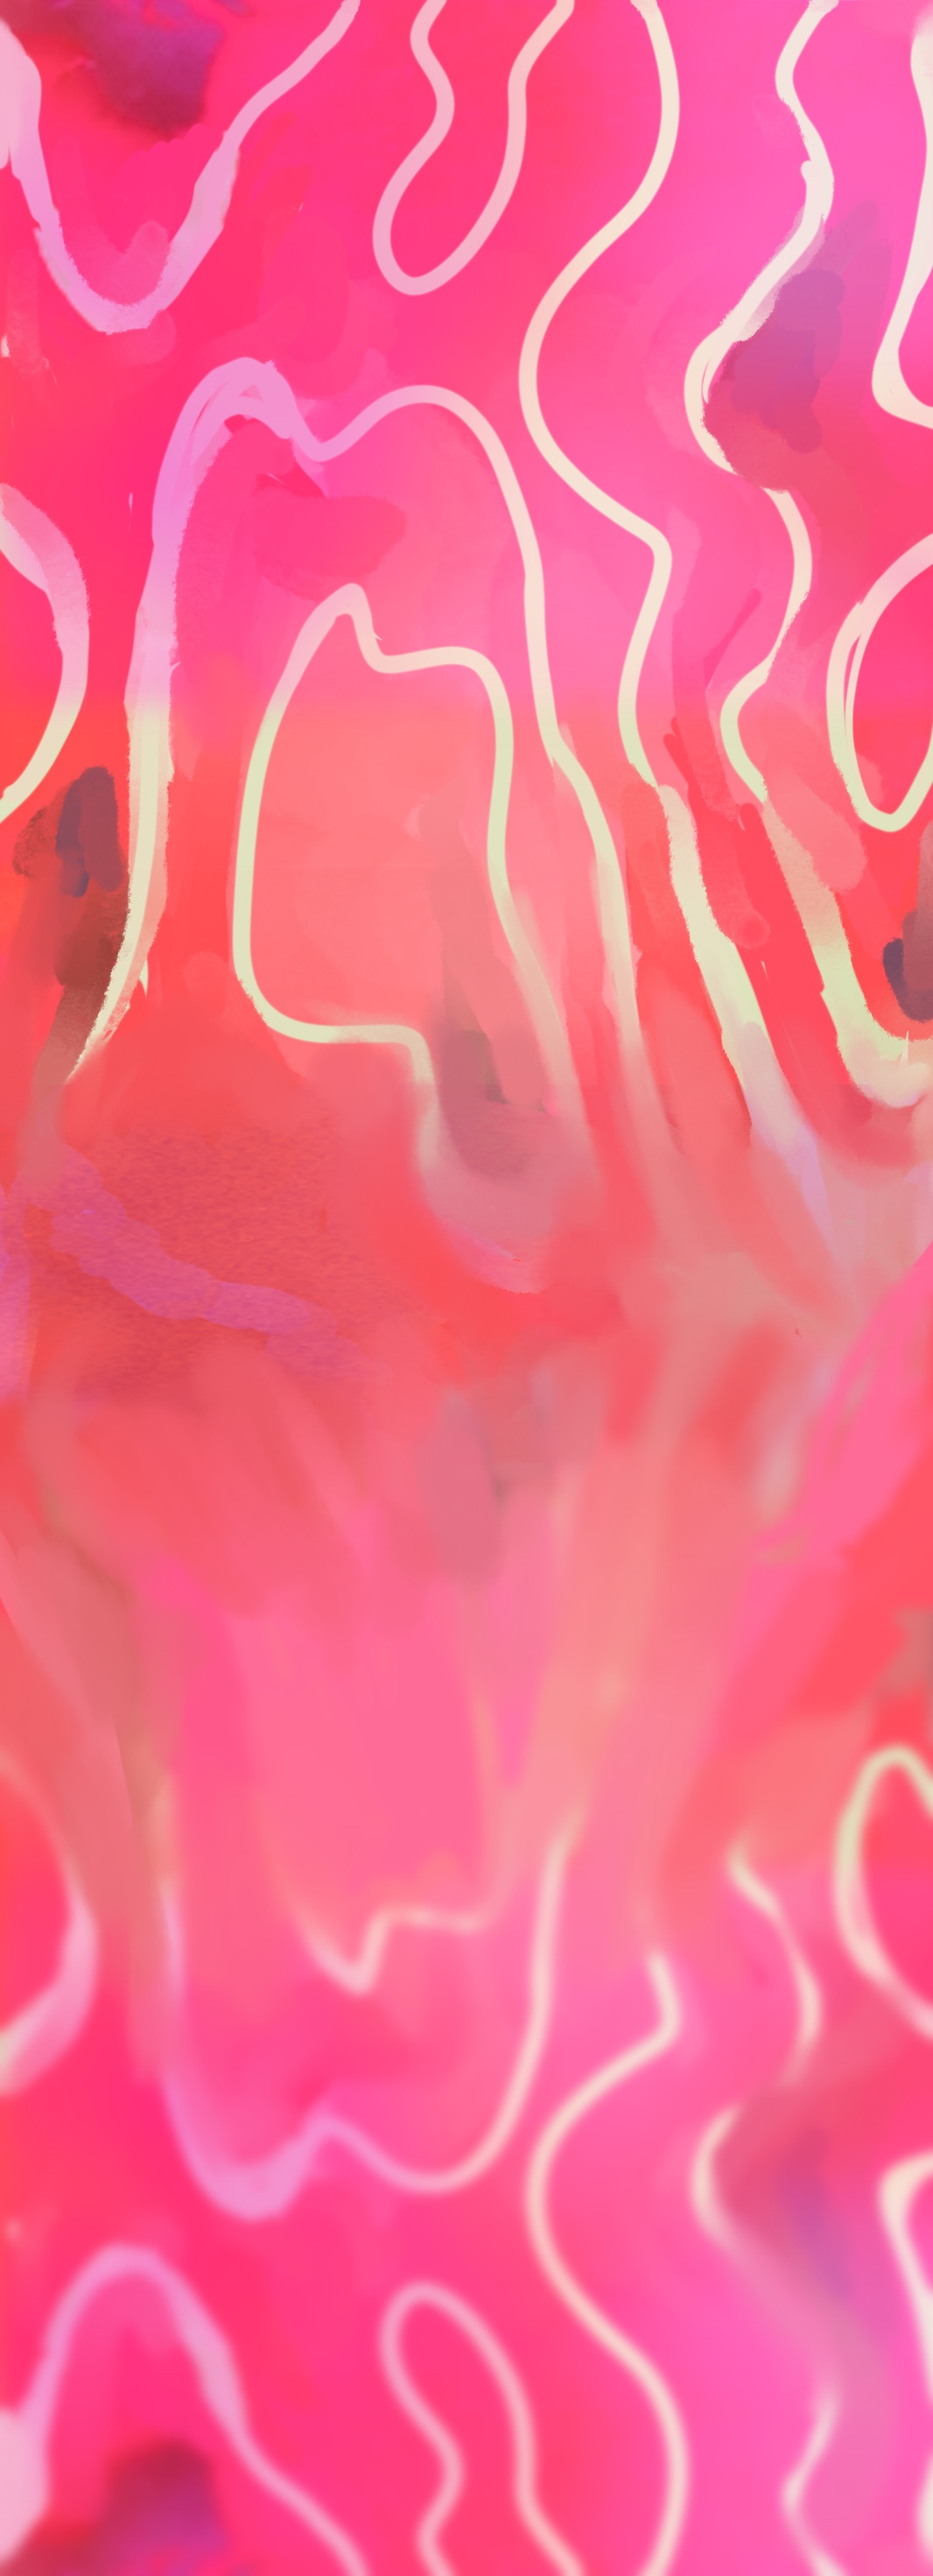
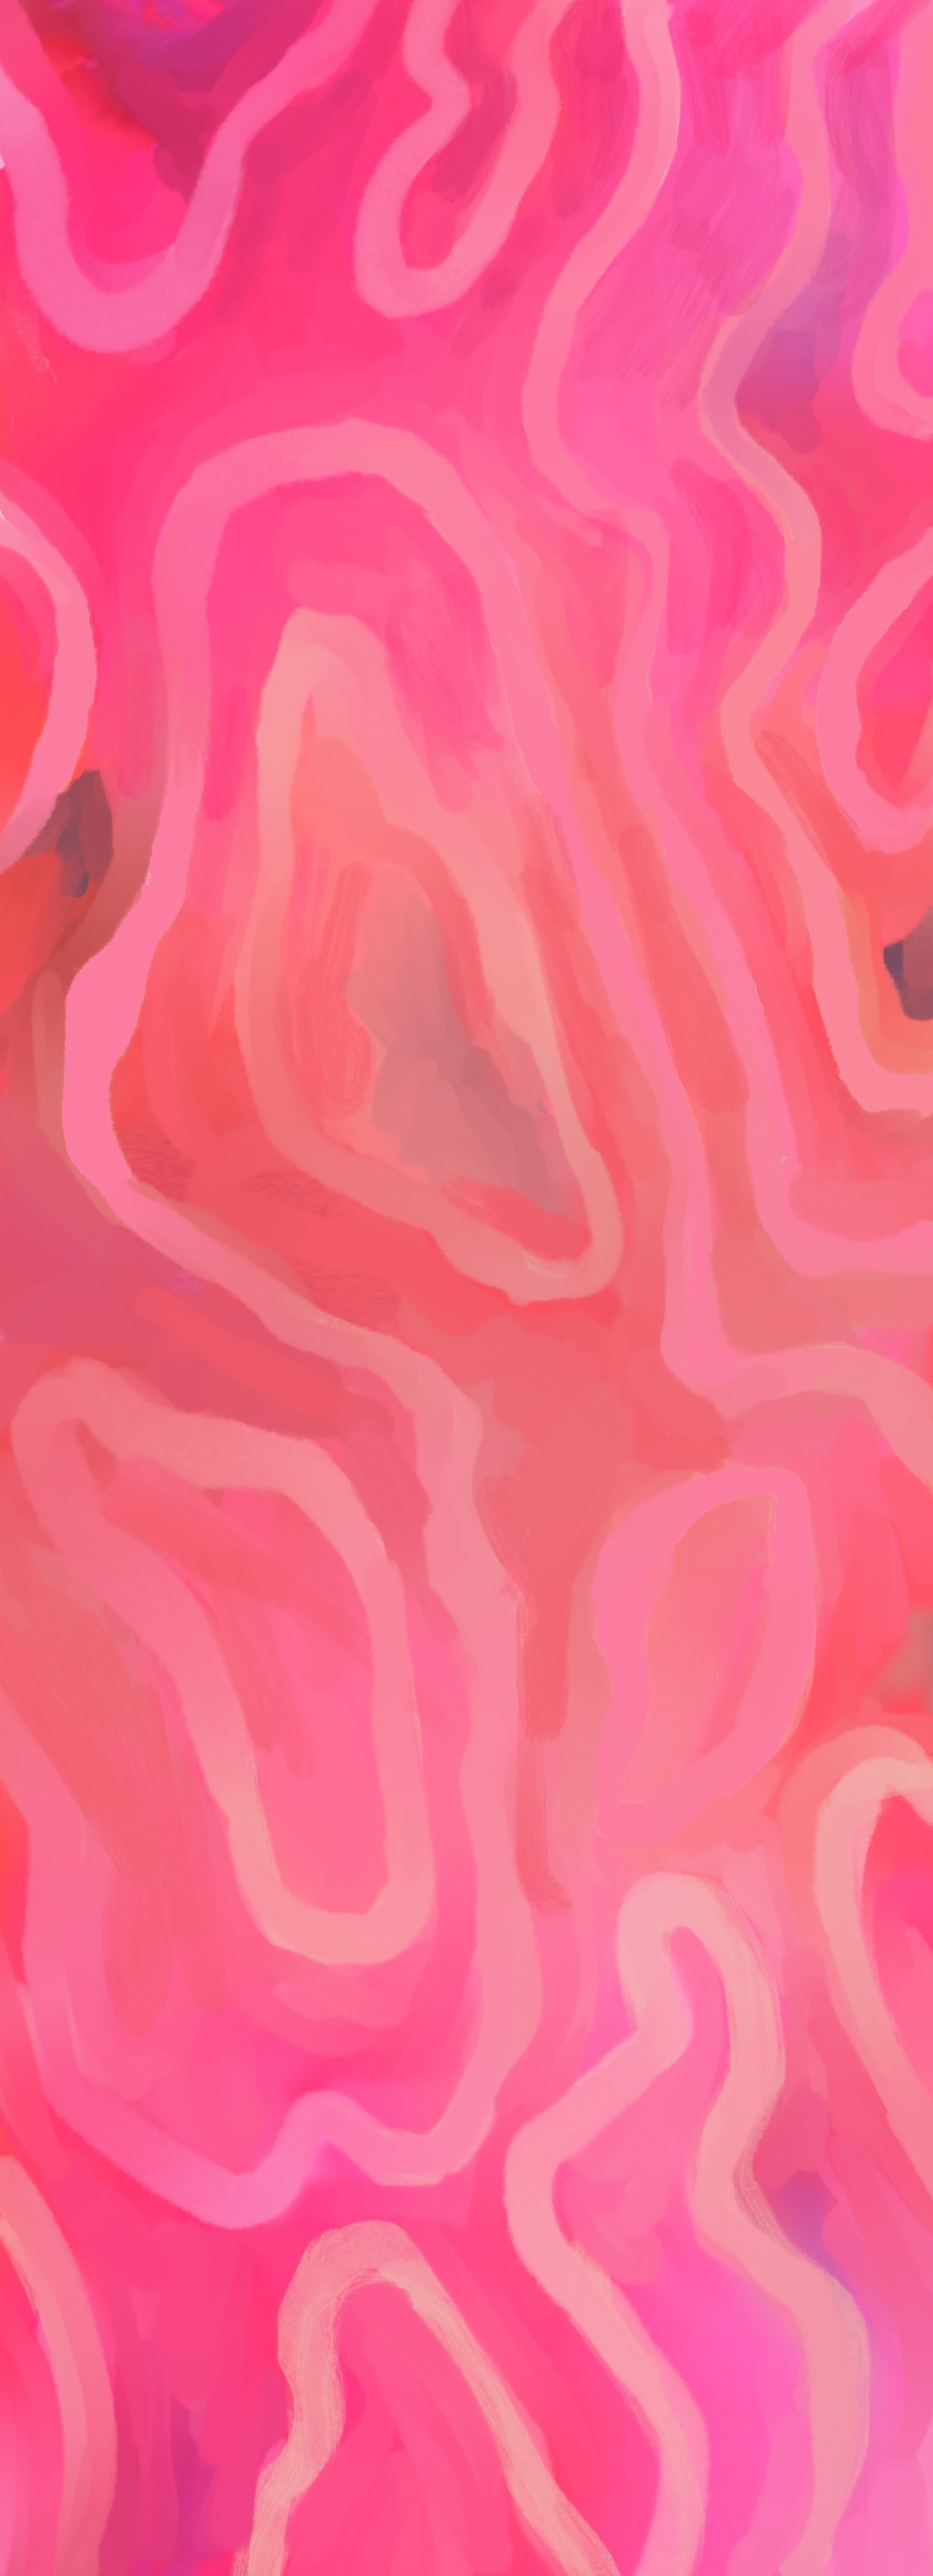
fix(mobile): maintain global audio player visibility across screens and fix web tab bar overlap (#412)
* fix(mobile): maintain global audio player visibility across screens and fix web tab bar overlap

* chore: update mobile application background assets

* refactor: export environment variables explicitly in eas-build-web commands to ensure visibility for subcommands

* chore: update seed data price for centro trip location

diff --git a/apps/mobile/src/components/global-audio-player.tsx b/apps/mobile/src/components/global-audio-player.tsx
@@ -1,10 +1,10 @@
 import { Icon } from '@/components/icon';
 import { TAB_BAR_INSET } from '@/components/screen-wrapper';
 import { useAudioRewind } from '@/hooks/use-audio-rewind';
-import { useCurrentExperience } from '@/hooks/use-current-experience';
+import { useCurrentExperience, isSameExperience } from '@/hooks/use-current-experience';
 import { useThemeColors } from '@/hooks/use-theme-colors';
 import { useAppTranslation } from '@/hooks/use-translation';
-import { cleanExperienceId, useAudioPlayerStore } from '@/store/audio-player-store';
+import { useAudioPlayerStore } from '@/store/audio-player-store';
 import { TwPressable, TwText, TwView } from '@/tw';
 import { usePathname, useSegments } from 'expo-router';
 import { Platform } from 'react-native';
@@ -18,7 +18,8 @@ export function GlobalAudioPlayer() {
   const segments = useSegments() as string[];
   const pathname = usePathname();
   const insets = useSafeAreaInsets();
-  const { experienceId, isPlaying, isPaused, metadata: currentMetadata } = useCurrentExperience();
+  const currentExperience = useCurrentExperience();
+  const { isPlaying, isPaused, metadata: currentMetadata } = currentExperience;
 
   const positionMs = useAudioPlayerStore((s) => s.positionMs);
   const durationMs = useAudioPlayerStore((s) => s.durationMs);
@@ -31,25 +32,11 @@ export function GlobalAudioPlayer() {
   const pathParts = pathname.split('/');
   const routeIdParam = pathParts[1] === ROUTES.POETICS ? pathParts[2] : undefined;
 
-  // Normalize route param ID to match clean experience ID formats
-  const cleanSegmentId = cleanExperienceId(routeIdParam) ?? undefined;
+  // Hide the global audio player only if viewing the detail page of the currently playing track/experience
+  const isDetailViewOfCurrentExperience = isSameExperience(currentExperience, routeIdParam);
 
-  // Hide the global audio player if the local audio player is already visible:
-  // 1. Playing instructions on the Home tab screen
-  // 2. Viewing the track details page of the currently playing track
-  const isLocalControllerVisible =
-    (experienceId === 'instructions' &&
-      (pathname === '/' || // Standard root path on Web/Mobile
-        pathname === '/index' || // Direct index route fallback
-        pathname === '/(tabs)' || // Tab group root segment path
-        pathname === '/(tabs)/index')) || // Explicit tab index path (e.g. deep-links / test environments)
-    (segments[0] === ROUTES.POETICS &&
-      cleanSegmentId !== undefined &&
-      (experienceId === cleanSegmentId ||
-        currentMetadata?.id === cleanSegmentId ||
-        currentMetadata?.slug === cleanSegmentId));
-
-  const isVisible = (isPlaying || isPaused) && currentUri !== null && !isLocalControllerVisible;
+  const isVisible =
+    (isPlaying || isPaused) && currentUri !== null && !isDetailViewOfCurrentExperience;
 
   if (!isVisible) {
     return null;
@@ -70,12 +57,18 @@ export function GlobalAudioPlayer() {
     stop();
   };
 
-  // Determine bottom offset: above bottom tabs when inside tab navigator, near bottom (safe area offset) otherwise
-  const isInTabs = segments[0] === '(tabs)';
+  // Determine bottom offset: above bottom tabs when inside tab navigator or web tab views, near bottom (safe area offset) otherwise
+  const firstSegment = segments[0] ? segments[0].replace(/^\//, '') : 'index';
+  const tabRoutes = ['index', 'explore', 'settings', 'derivas', 'messages'];
+  const isInTabs =
+    firstSegment === '(tabs)' || pathname === '/' || tabRoutes.includes(firstSegment);
+
   const bottomOffset = isInTabs
     ? Platform.OS === 'android'
       ? TAB_BAR_INSET + 12
-      : TAB_BAR_INSET
+      : Platform.OS === 'web'
+        ? 56
+        : TAB_BAR_INSET
     : Platform.OS === 'android'
       ? Math.max(insets.bottom, 16)
       : Math.max(insets.bottom, 12);
@@ -83,7 +76,7 @@ export function GlobalAudioPlayer() {
   return (
     <TwView
       testID="global-audio-player"
-      className="absolute left-0 right-0 border-b"
+      className="absolute left-0 right-0 border-b z-40"
       style={{
         bottom: bottomOffset,
         backgroundColor: colors.tabBarBg,

diff --git a/apps/mobile/src/hooks/__tests__/use-current-experience.test.ts b/apps/mobile/src/hooks/__tests__/use-current-experience.test.ts
@@ -1,5 +1,9 @@
 import { renderHook } from '@testing-library/react-native';
-import { useCurrentExperience } from '../use-current-experience';
+import {
+  useCurrentExperience,
+  isSameExperience,
+  type CurrentExperience,
+} from '../use-current-experience';
 import { useAudioPlayerStore } from '@/store/audio-player-store';
 
 jest.mock('@/store/audio-player-store', () => {
@@ -64,5 +68,49 @@ describe('useCurrentExperience', () => {
 
     const { result } = await renderHook(() => useCurrentExperience());
     expect(result.current.experienceId).toBe('456');
+  });
+});
+
+describe('isSameExperience', () => {
+  const baseExperience: CurrentExperience = {
+    experienceId: 'uuid-123',
+    status: 'playing',
+    isPlaying: true,
+    isPaused: false,
+    metadata: {
+      title: 'Sample Track',
+      id: 'uuid-123',
+      slug: 'sample-track-slug',
+    },
+  };
+
+  it('returns false if targetIdOrSlug is null or undefined or empty', () => {
+    expect(isSameExperience(baseExperience, null)).toBe(false);
+    expect(isSameExperience(baseExperience, undefined)).toBe(false);
+    expect(isSameExperience(baseExperience, '')).toBe(false);
+  });
+
+  it('returns true when target matches experienceId', () => {
+    expect(isSameExperience(baseExperience, 'uuid-123')).toBe(false || true);
+    expect(isSameExperience(baseExperience, 'track-uuid-123')).toBe(true);
+    expect(isSameExperience(baseExperience, 'trip-uuid-123')).toBe(true);
+  });
+
+  it('returns true when target matches metadata.slug', () => {
+    expect(isSameExperience(baseExperience, 'sample-track-slug')).toBe(true);
+    expect(isSameExperience(baseExperience, 'track-sample-track-slug')).toBe(true);
+  });
+
+  it('returns true when target matches metadata.id', () => {
+    const expWithDifferentId: CurrentExperience = {
+      ...baseExperience,
+      experienceId: 'fallback-id',
+      metadata: { id: 'real-uuid', slug: 'slug-val' },
+    };
+    expect(isSameExperience(expWithDifferentId, 'real-uuid')).toBe(true);
+  });
+
+  it('returns false when target matches neither experienceId nor metadata', () => {
+    expect(isSameExperience(baseExperience, 'different-id')).toBe(false);
   });
 });

diff --git a/apps/mobile/src/__tests__/global-audio-player.test.tsx b/apps/mobile/src/__tests__/global-audio-player.test.tsx
@@ -145,7 +145,7 @@ describe('GlobalAudioPlayer', () => {
     ['/(tabs)', ['(tabs)']],
     ['/(tabs)/index', ['(tabs)', 'index']],
   ])(
-    'hides when playing instructions on the Home screen with pathname "%s"',
+    'shows when playing instructions on the Home screen with pathname "%s"',
     async (pathname, segments) => {
       mockSegments = segments;
       mockPathname = pathname;
@@ -153,11 +153,11 @@ describe('GlobalAudioPlayer', () => {
       mockState.currentUri = 'file://instructions.mp3';
 
       const { queryByTestId } = await render(<GlobalAudioPlayer />);
-      expect(queryByTestId('global-audio-player')).toBeNull();
+      expect(queryByTestId('global-audio-player')).not.toBeNull();
     },
   );
 
-  it('hides when playing instructions on the Home tab screen with a blob URI but metadata id instructions', async () => {
+  it('shows when playing instructions on the Home tab screen with a blob URI and metadata id instructions', async () => {
     mockSegments = ['(tabs)', 'index'];
     mockPathname = '/(tabs)/index';
     mockState.status = 'playing';
@@ -168,7 +168,7 @@ describe('GlobalAudioPlayer', () => {
     };
 
     const { queryByTestId } = await render(<GlobalAudioPlayer />);
-    expect(queryByTestId('global-audio-player')).toBeNull();
+    expect(queryByTestId('global-audio-player')).not.toBeNull();
   });
 
   it('hides when on track detail screen and the playing track matches', async () => {

diff --git a/apps/mobile/src/hooks/use-current-experience.ts b/apps/mobile/src/hooks/use-current-experience.ts
@@ -31,3 +31,18 @@ export function useCurrentExperience(): CurrentExperience {
     metadata: currentMetadata,
   };
 }
+
+export function isSameExperience(
+  current: CurrentExperience,
+  targetIdOrSlug?: string | null,
+): boolean {
+  if (!targetIdOrSlug) return false;
+  const cleanTarget = cleanExperienceId(targetIdOrSlug);
+  if (!cleanTarget) return false;
+
+  return (
+    current.experienceId === cleanTarget ||
+    current.metadata?.id === cleanTarget ||
+    current.metadata?.slug === cleanTarget
+  );
+}

diff --git a/apps/mobile/src/constants/theme.ts b/apps/mobile/src/constants/theme.ts
@@ -58,5 +58,5 @@ export const SPLASH_COLORS = {
   staging: '#F59E0B',
 } as const;
 
-export const BottomTabInset = Platform.select({ ios: 50, android: 80 }) ?? 0;
+export const BottomTabInset = Platform.select({ ios: 50, android: 80, default: 54 }) ?? 54;
 export const TabBottomPadding = 16;

diff --git a/apps/api/src/db/seed.ts b/apps/api/src/db/seed.ts
@@ -74,7 +74,7 @@ const trips = [
     latitude: -32.211913,
     longitude: -64.73809012343702,
     free: false,
-    price: 100,
+    price: 1000000,
     currency: 'ARS',
     imageKey: 'trips-deriva-centro-cover',
     geofenceBypassable: false,
